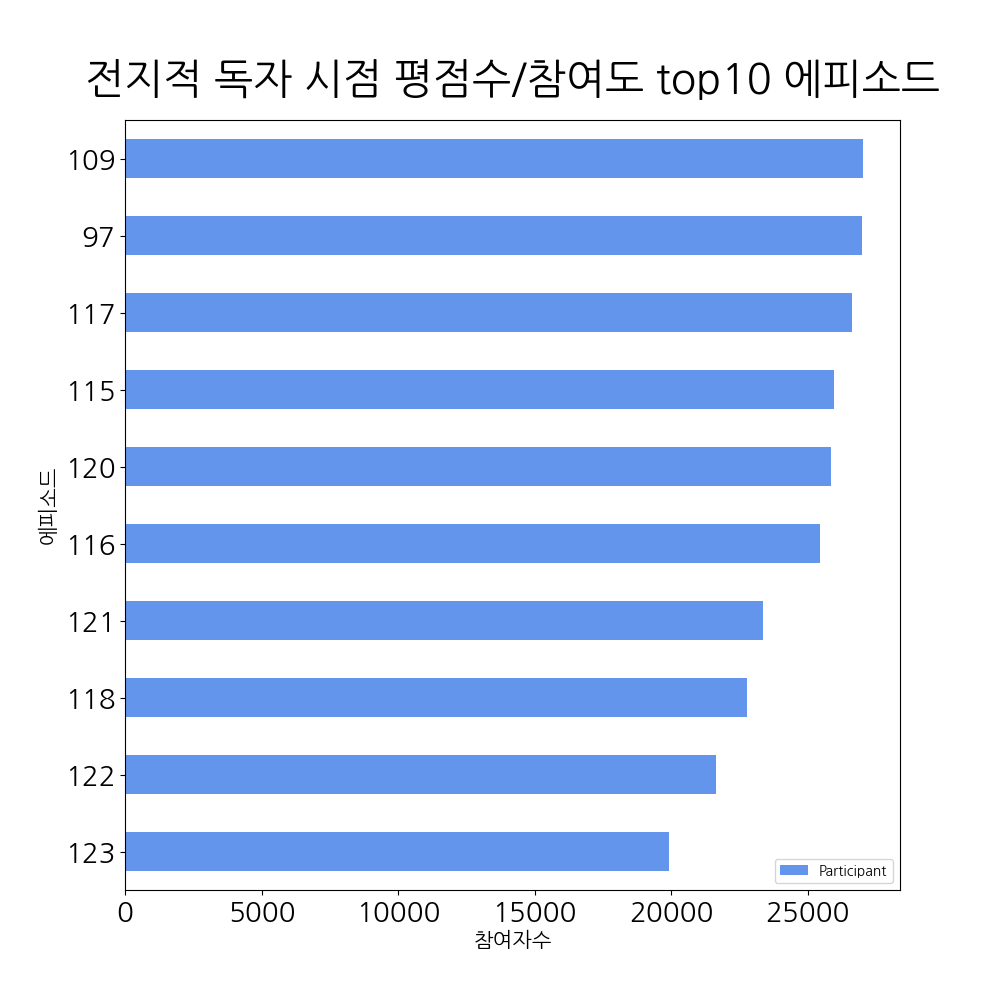
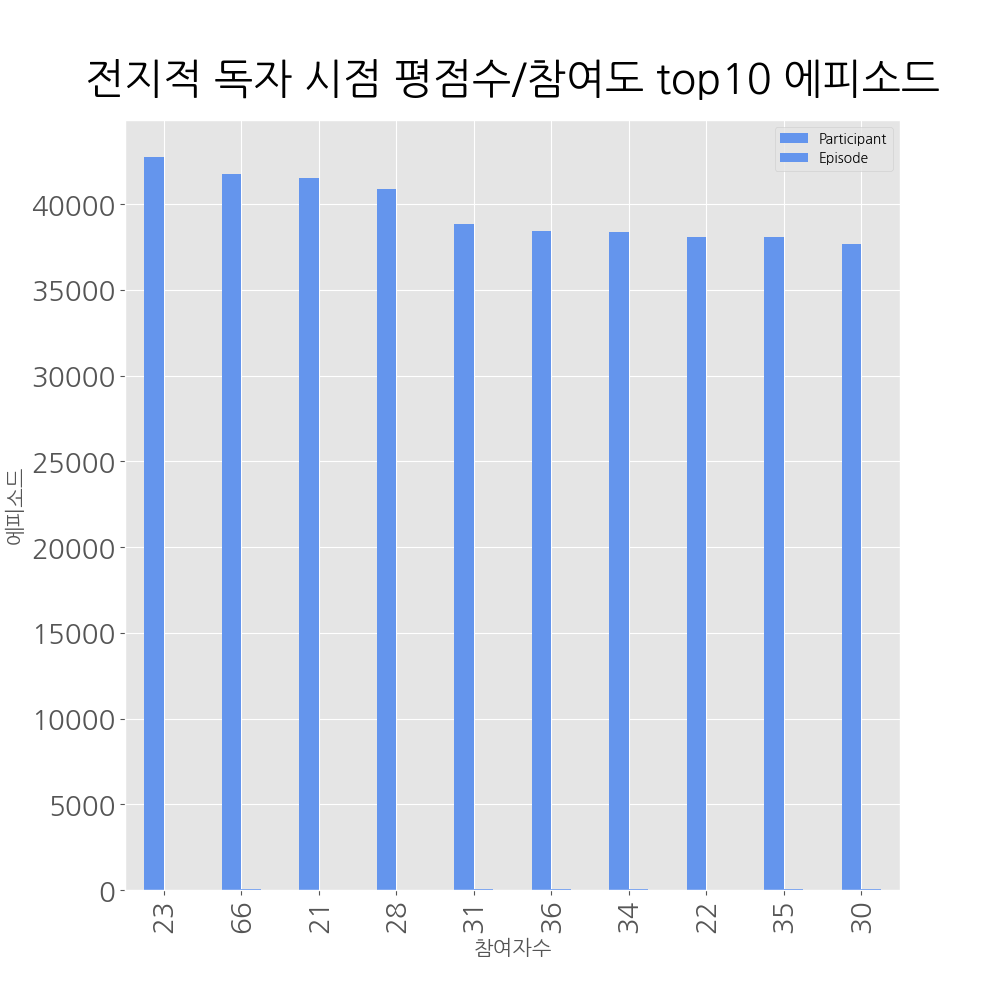
웹 최종 커밋

diff --git a/웹서비스/webtoonitda/webtoonitda/views/base_views.py b/웹서비스/webtoonitda/webtoonitda/views/base_views.py
@@ -68,9 +68,9 @@ def show_best_episodes_by_reviews(request, lang, platform, webtoon):
 
     # 1. 동적으로 크롤링하여 결과 보여주기
 
-    #chromedriver_path = '/media/kr/'  # 윤지 크롬드라이브 경로
+    # chromedriver_path = '/media/kr/'  # 윤지 크롬드라이브 경로
     chromedriver_path = 'c:\python\chromedriver.exe' #윤지 크롬드라이브 경로
-    #chromedriver_path = 'c:\Temp\chromedriver.exe' # 선미님 크롬드라이브 경로
+    # chromedriver_path = 'c:\Temp\chromedriver.exe' # 선미님 크롬드라이브 경로
     # titleId = get_webtoon_titleId(chromedriver_path, platform, lang, webtoon)
     # print("titleId: " + str(titleId))
 
@@ -145,7 +145,7 @@ def show_best_episodes_by_points(request, lang, platform, webtoon):
     else:
         # 크롤링 한다.
         chromedriver_path = 'c:\python\chromedriver.exe' #윤지 크롬드라이브 경로
-        #chromedriver_path = 'c:\Temp\chromedriver.exe' #선미님 크롬드라이브 경로
+        # chromedriver_path = 'c:\Temp\chromedriver.exe' #선미님 크롬드라이브 경로
         titleId = get_webtoon_titleId(chromedriver_path, platform, lang, webtoon)
         print("titleId: " + str(titleId))
         df = get_top10_point_participants(chromedriver_path, platform, lang, titleId)
@@ -157,6 +157,7 @@ def show_best_episodes_by_points(request, lang, platform, webtoon):
 
     df['Episode'] = df.index
     df['Episode'] = df['Episode'] + 1
+
     df = df.drop('Point', axis=1)
     df_top = df
 

diff --git a/웹서비스/webtoonitda/webtoonitda/views/naver_webtoon.py b/웹서비스/webtoonitda/webtoonitda/views/naver_webtoon.py
@@ -385,8 +385,8 @@ def show_best_by_points(top10, filepath, webtoon):
     plt.style.use('ggplot')
     plt.title( webtoon +' 평점수/참여도 top10 에피소드', fontsize=30, loc='center', pad=20)
 
-    plt.xlabel('에피소드', size=15)
-    plt.ylabel('참여자수', size=15)
+    plt.xlabel('참여자수', size=15)
+    plt.ylabel('에피소드', size=15)
 
     # fig = self.plt.figure(figsize=self.figsize)
     fig = plt.savefig(filepath, dpi=100)
